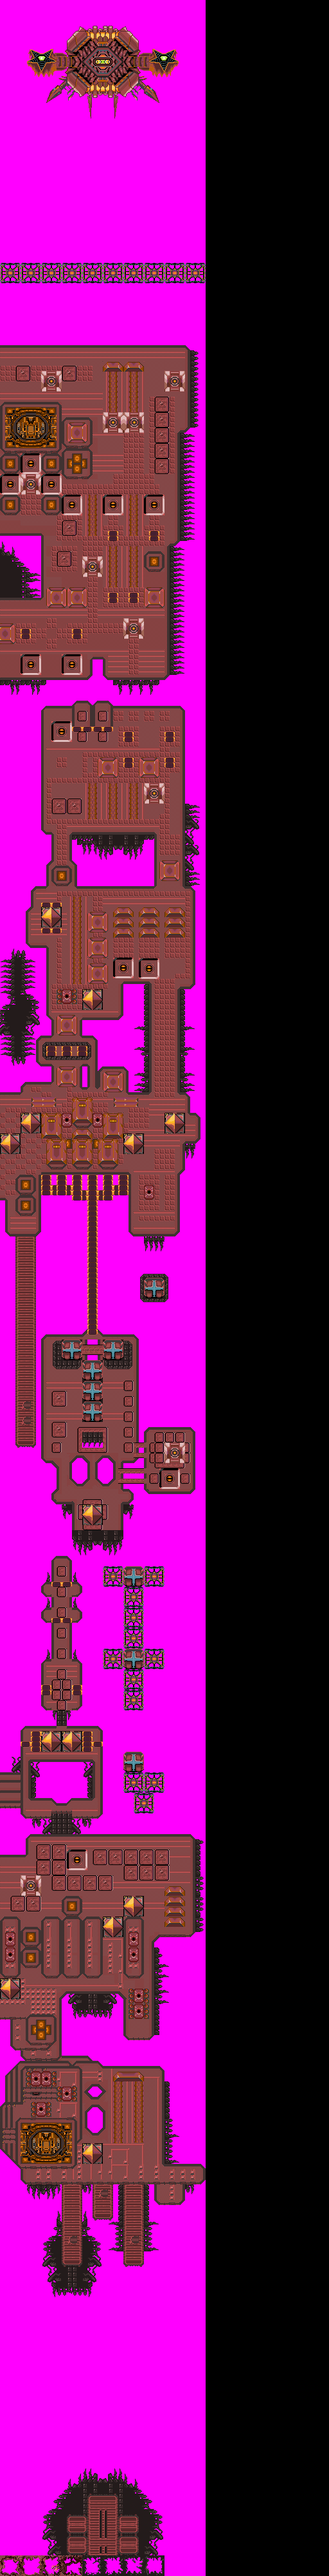
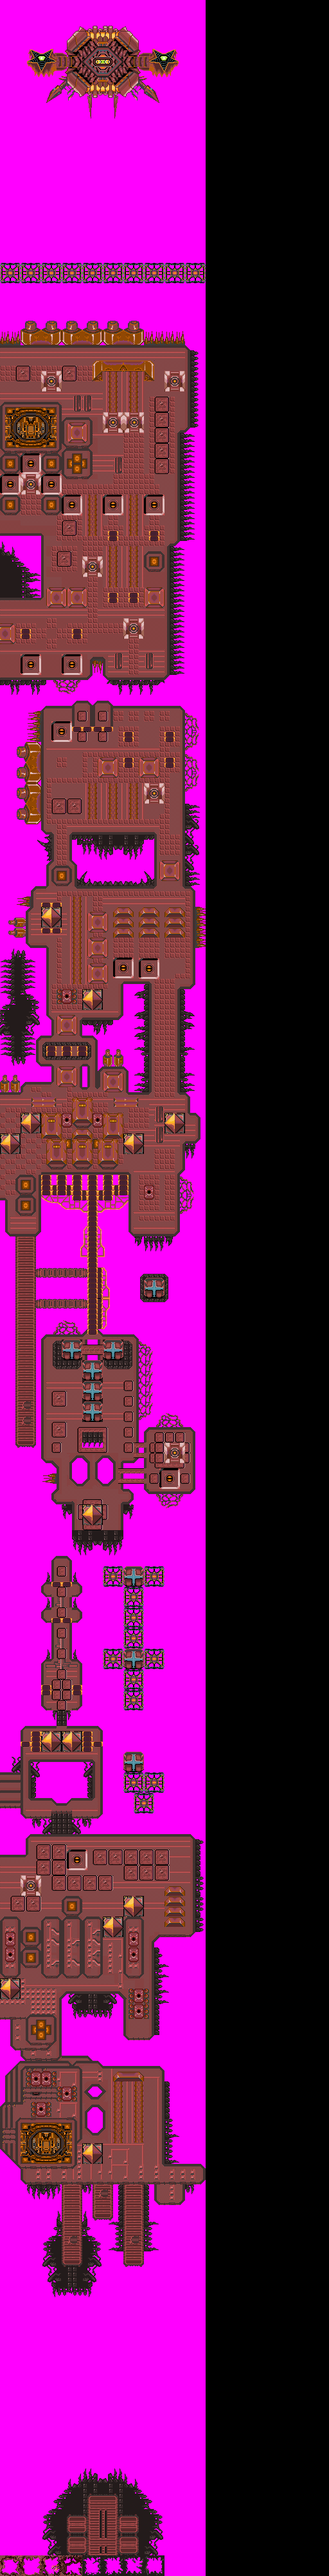
Henters added (levels 1,2,4,5,6,11,16) Refined level 11 gfx

diff --git a/WarhawkDS/arm9/source/warhawk.h b/WarhawkDS/arm9/source/warhawk.h
@@ -100,6 +100,7 @@
 #include "../build/BossBullets.h"
 #include "../build/BossExplode.h"
 #include "../build/BBEnergy.h"
+#include "../build/Hunters.h"
 @ View the VRAM layout at http://dev-scene.com/NDS/Tutorials_Day_4#Background_Memory_Layout_and_VRAM_Management
 
 @ BG0 - Text / Score / Energy
